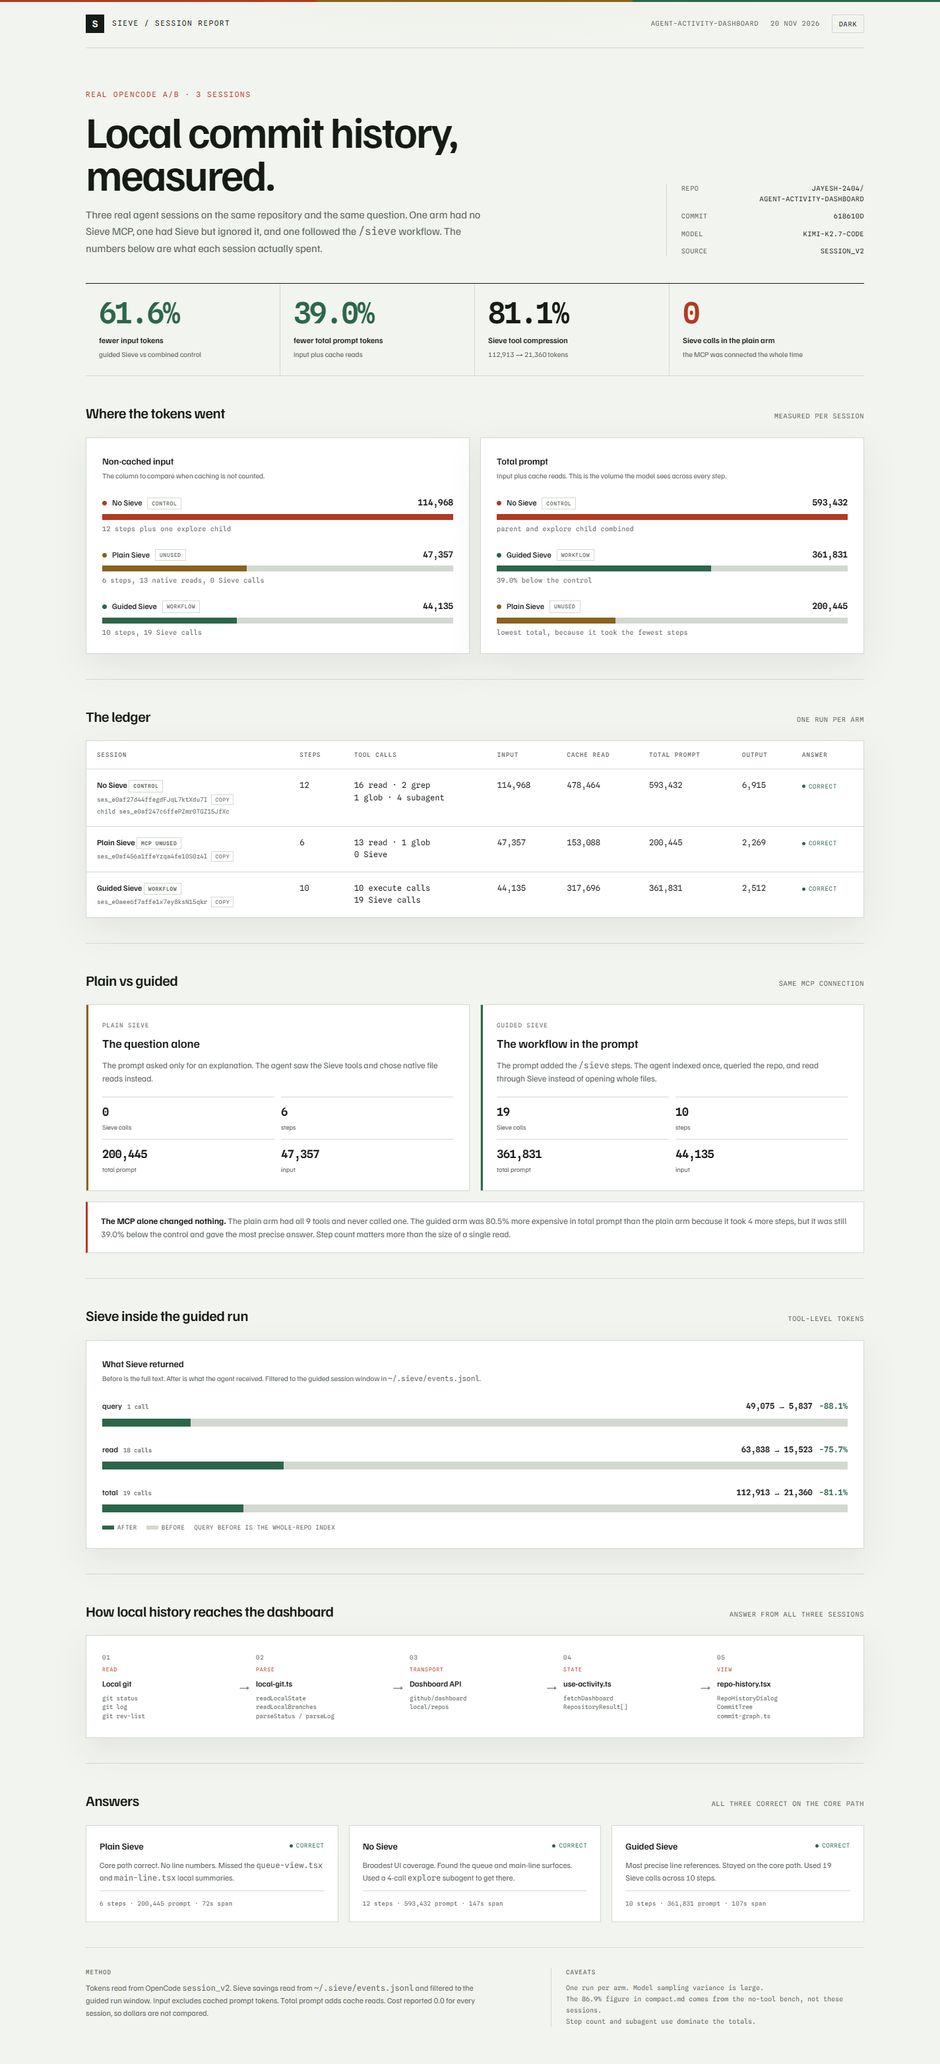
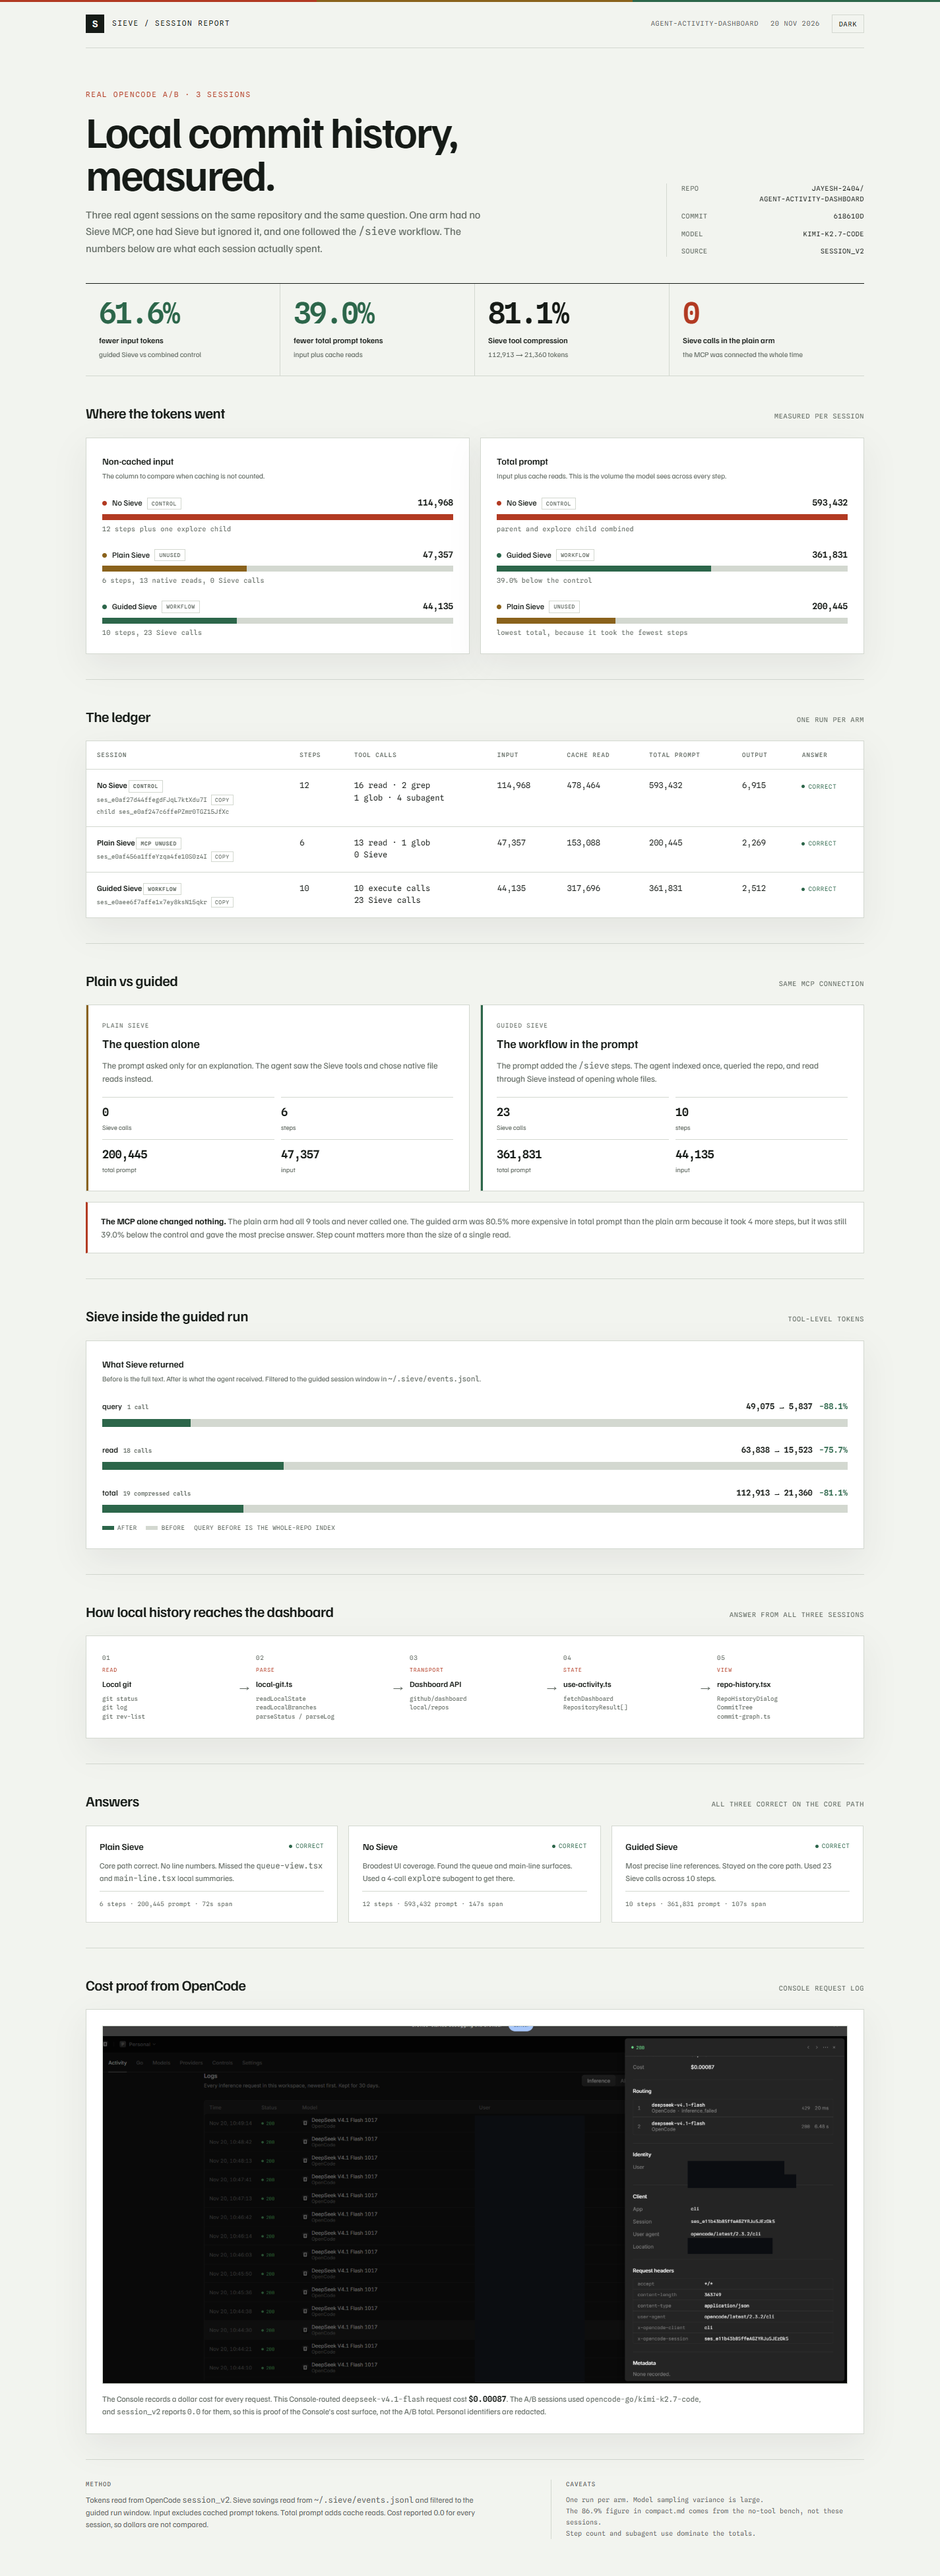
docs: add OpenCode Console cost proof to agent dashboard A/B

diff --git a/experiments/agent-activity-dashboard-ab/dashboard.html b/experiments/agent-activity-dashboard-ab/dashboard.html
@@ -179,6 +179,11 @@
   .answer p { color: var(--muted); font-size: 12px; }
   .answer .meta { margin-top: auto; padding-top: 12px; border-top: 1px solid var(--rule); font-family: var(--mono); font-size: 9px; color: var(--muted); letter-spacing: .04em; }
 
+  .proof img { width: 100%; height: auto; display: block; border: 1px solid var(--rule); }
+  .proof-note { margin-top: 14px; color: var(--muted); font-size: 12px; max-width: 920px; }
+  .proof-note b { color: var(--ink); font-family: var(--mono); }
+  .proof-note code { font-size: 11px; }
+
   footer { padding: 30px 0 56px; display: grid; grid-template-columns: 1.4fr 1fr; gap: 40px; }
   footer h4 { margin: 0 0 8px; font-family: var(--mono); font-size: 9px; letter-spacing: .12em; text-transform: uppercase; color: var(--muted); font-weight: 500; }
   footer p { color: var(--muted); font-size: 12px; max-width: 620px; }
@@ -512,6 +517,17 @@
         <p>Most precise line references. Stayed on the core path. Used 23 Sieve calls across 10 steps.</p>
         <div class="meta">10 steps · 361,831 prompt · 107s span</div>
       </div>
+    </div>
+  </section>
+
+  <section class="block reveal">
+    <div class="block-head">
+      <h2>Cost proof from OpenCode</h2>
+      <p class="hint">Console request log</p>
+    </div>
+    <div class="panel proof">
+      <img src="opencode-console-cost.png" alt="OpenCode Console request detail showing a cost of $0.00087">
+      <p class="proof-note">The Console records a dollar cost for every request. This Console-routed <code>deepseek-v4.1-flash</code> request cost <b>$0.00087</b>. The A/B sessions used <code>opencode-go/kimi-k2.7-code</code>, and <code>session_v2</code> reports <code>0.0</code> for them, so this is proof of the Console's cost surface, not the A/B total. Personal identifiers are redacted.</p>
     </div>
   </section>
 

diff --git a/experiments/agent-activity-dashboard-ab/README.md b/experiments/agent-activity-dashboard-ab/README.md
@@ -26,6 +26,12 @@ The control row is the parent session plus its `explore` child session.
 
 Guided Sieve used 61.6% fewer non-cached input tokens than the control and 39.0% fewer total prompt tokens. The plain Sieve run was still the cheapest at 200,445 total prompt, because it took 6 steps and never called Sieve.
 
+## Cost proof from OpenCode Console
+
+![OpenCode Console request cost](opencode-console-cost.png)
+
+The OpenCode Console records a dollar cost for every inference request. The captured request is a Console-routed `deepseek-v4.1-flash` call at `$0.00087`. The A/B sessions used `opencode-go/kimi-k2.7-code`, and `session_v2` reports cost `0.0` for them, so this image proves the Console's cost surface, not the A/B total. Personal identifiers are redacted.
+
 ## Plain vs guided
 
 The connection was identical. Plain Sieve only got the question and used native reads. Guided Sieve got the workflow and made 23 Sieve calls. The extra steps made guided 80.5% more expensive in total prompt than plain, while still 39.0% below the control. The MCP alone changed nothing.
@@ -46,6 +52,7 @@ Local commit history is read live from the checkout on each dashboard request. `
 - `local-history-flow.excalidraw`
 - `local-history-flow.png`
 - `dashboard-preview.png`
+- `opencode-console-cost.png`
 
 ## Caveats
 
